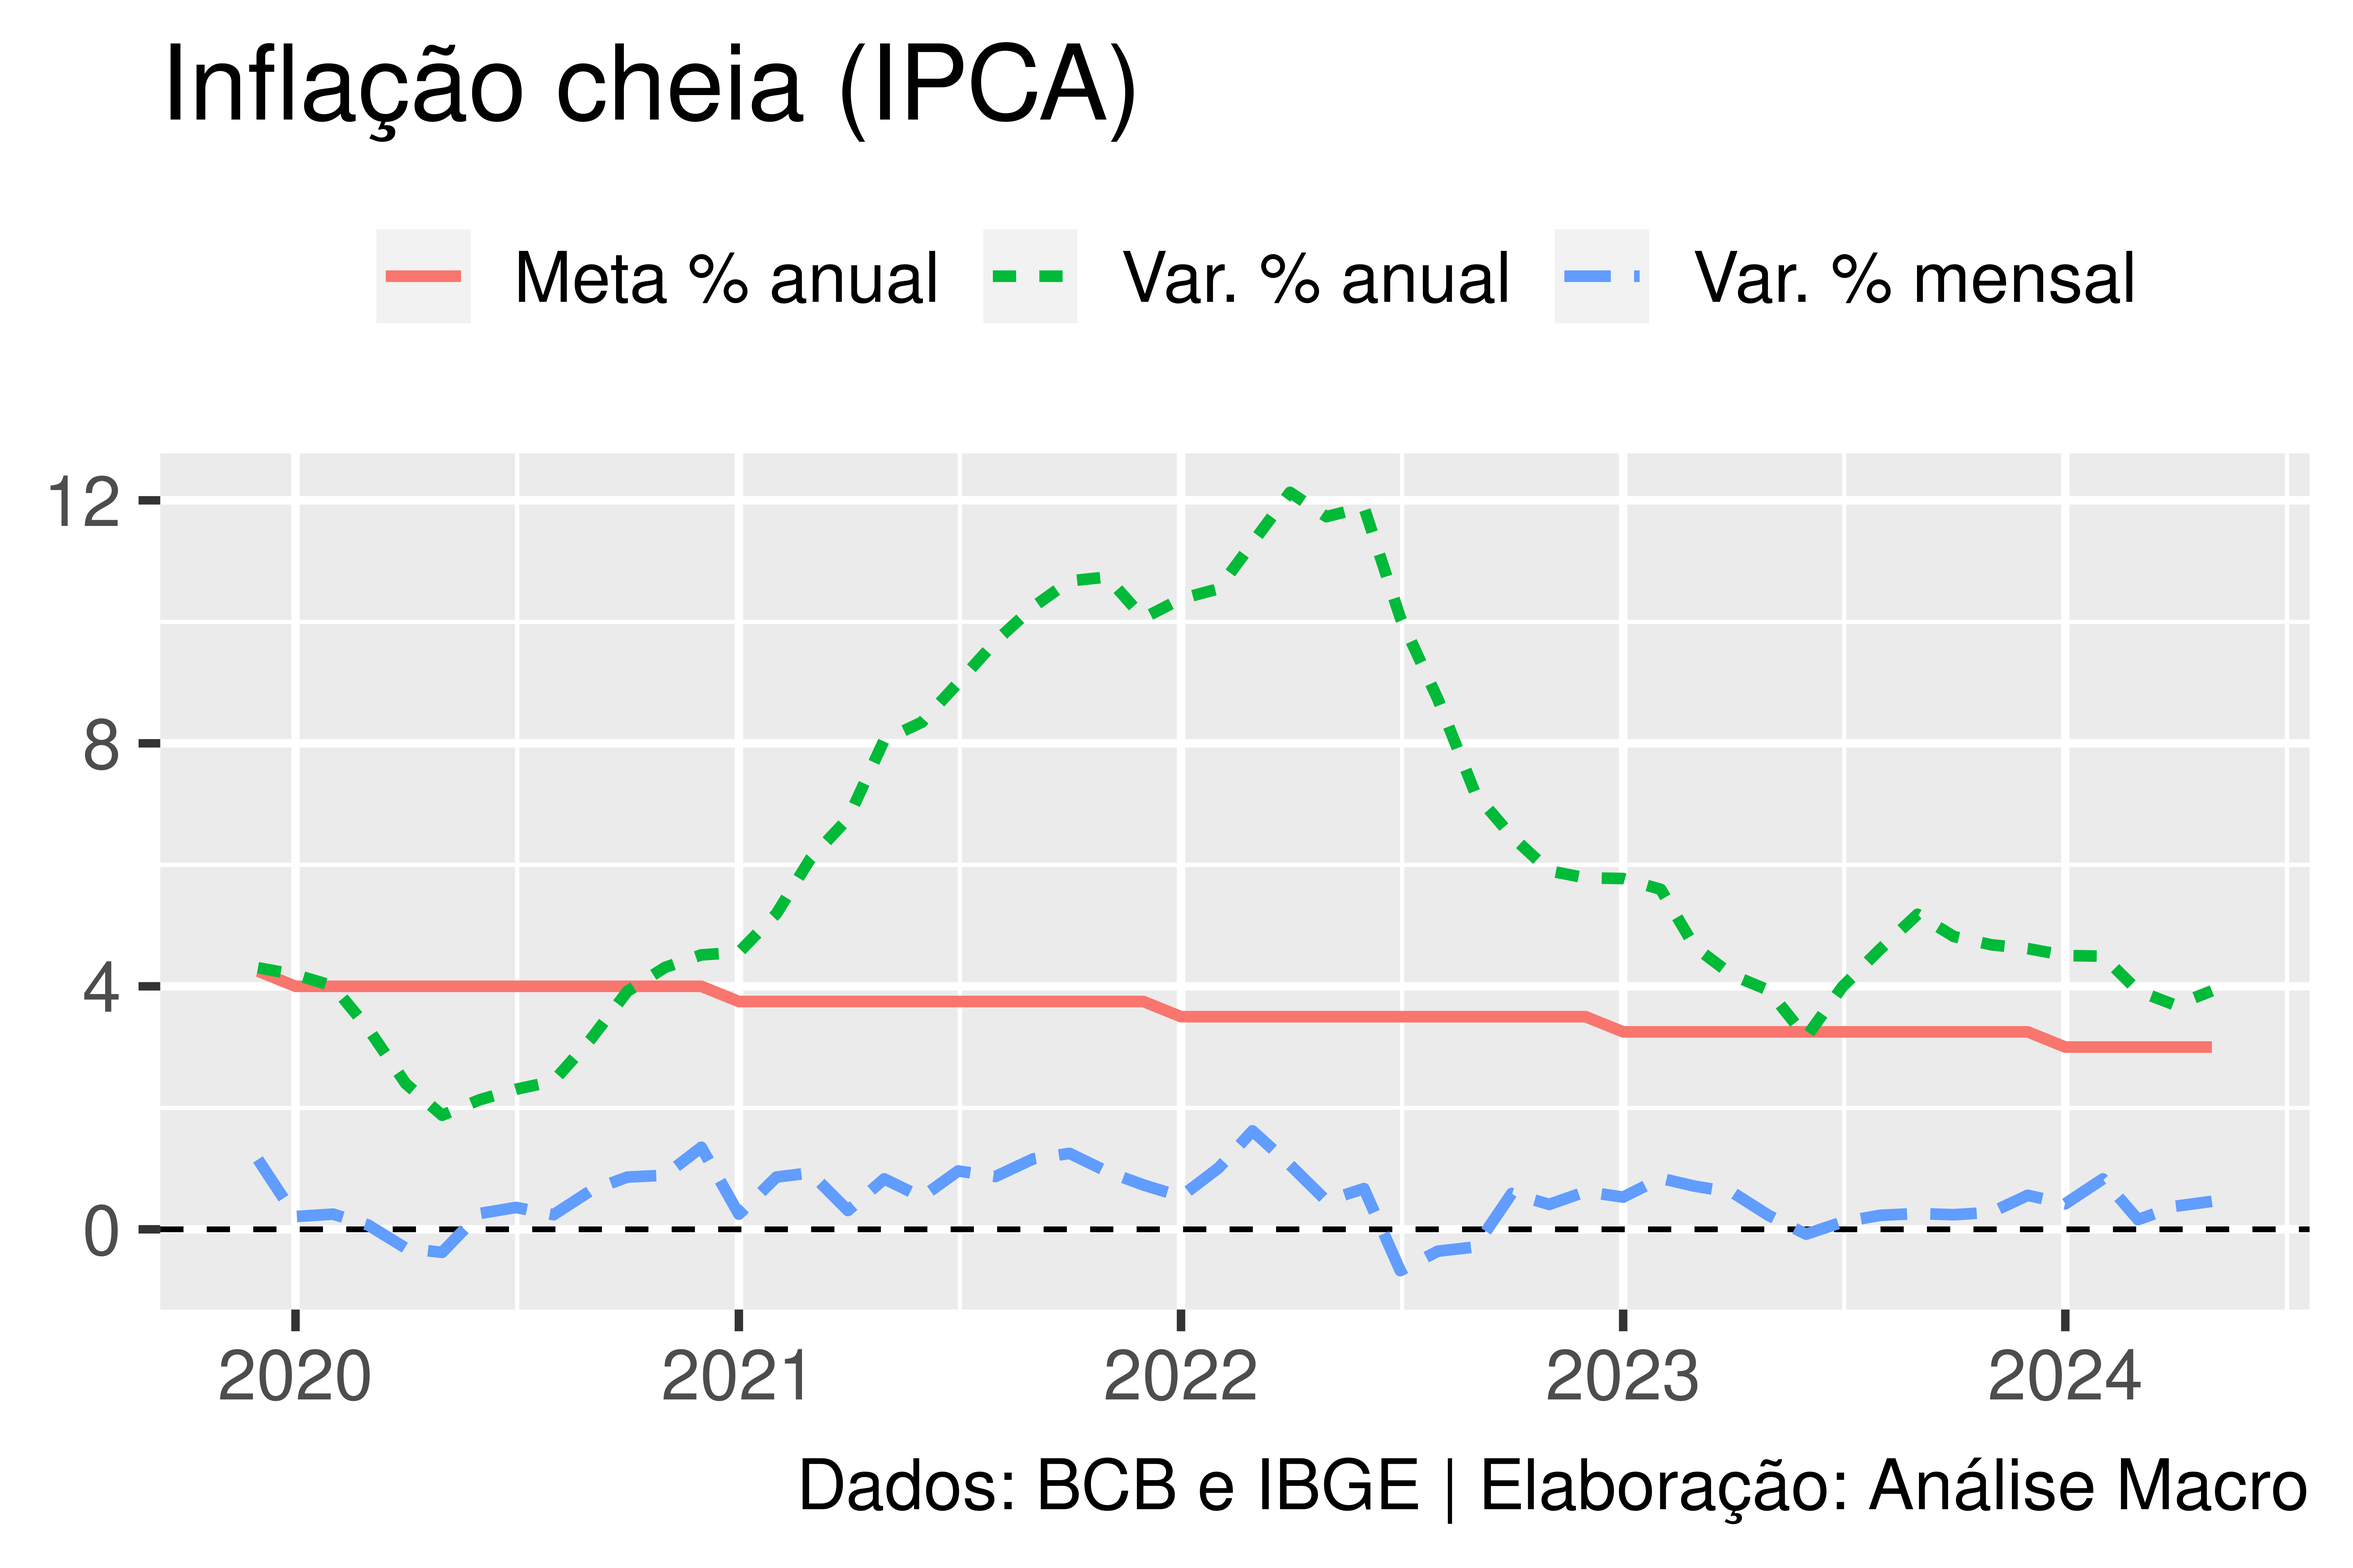
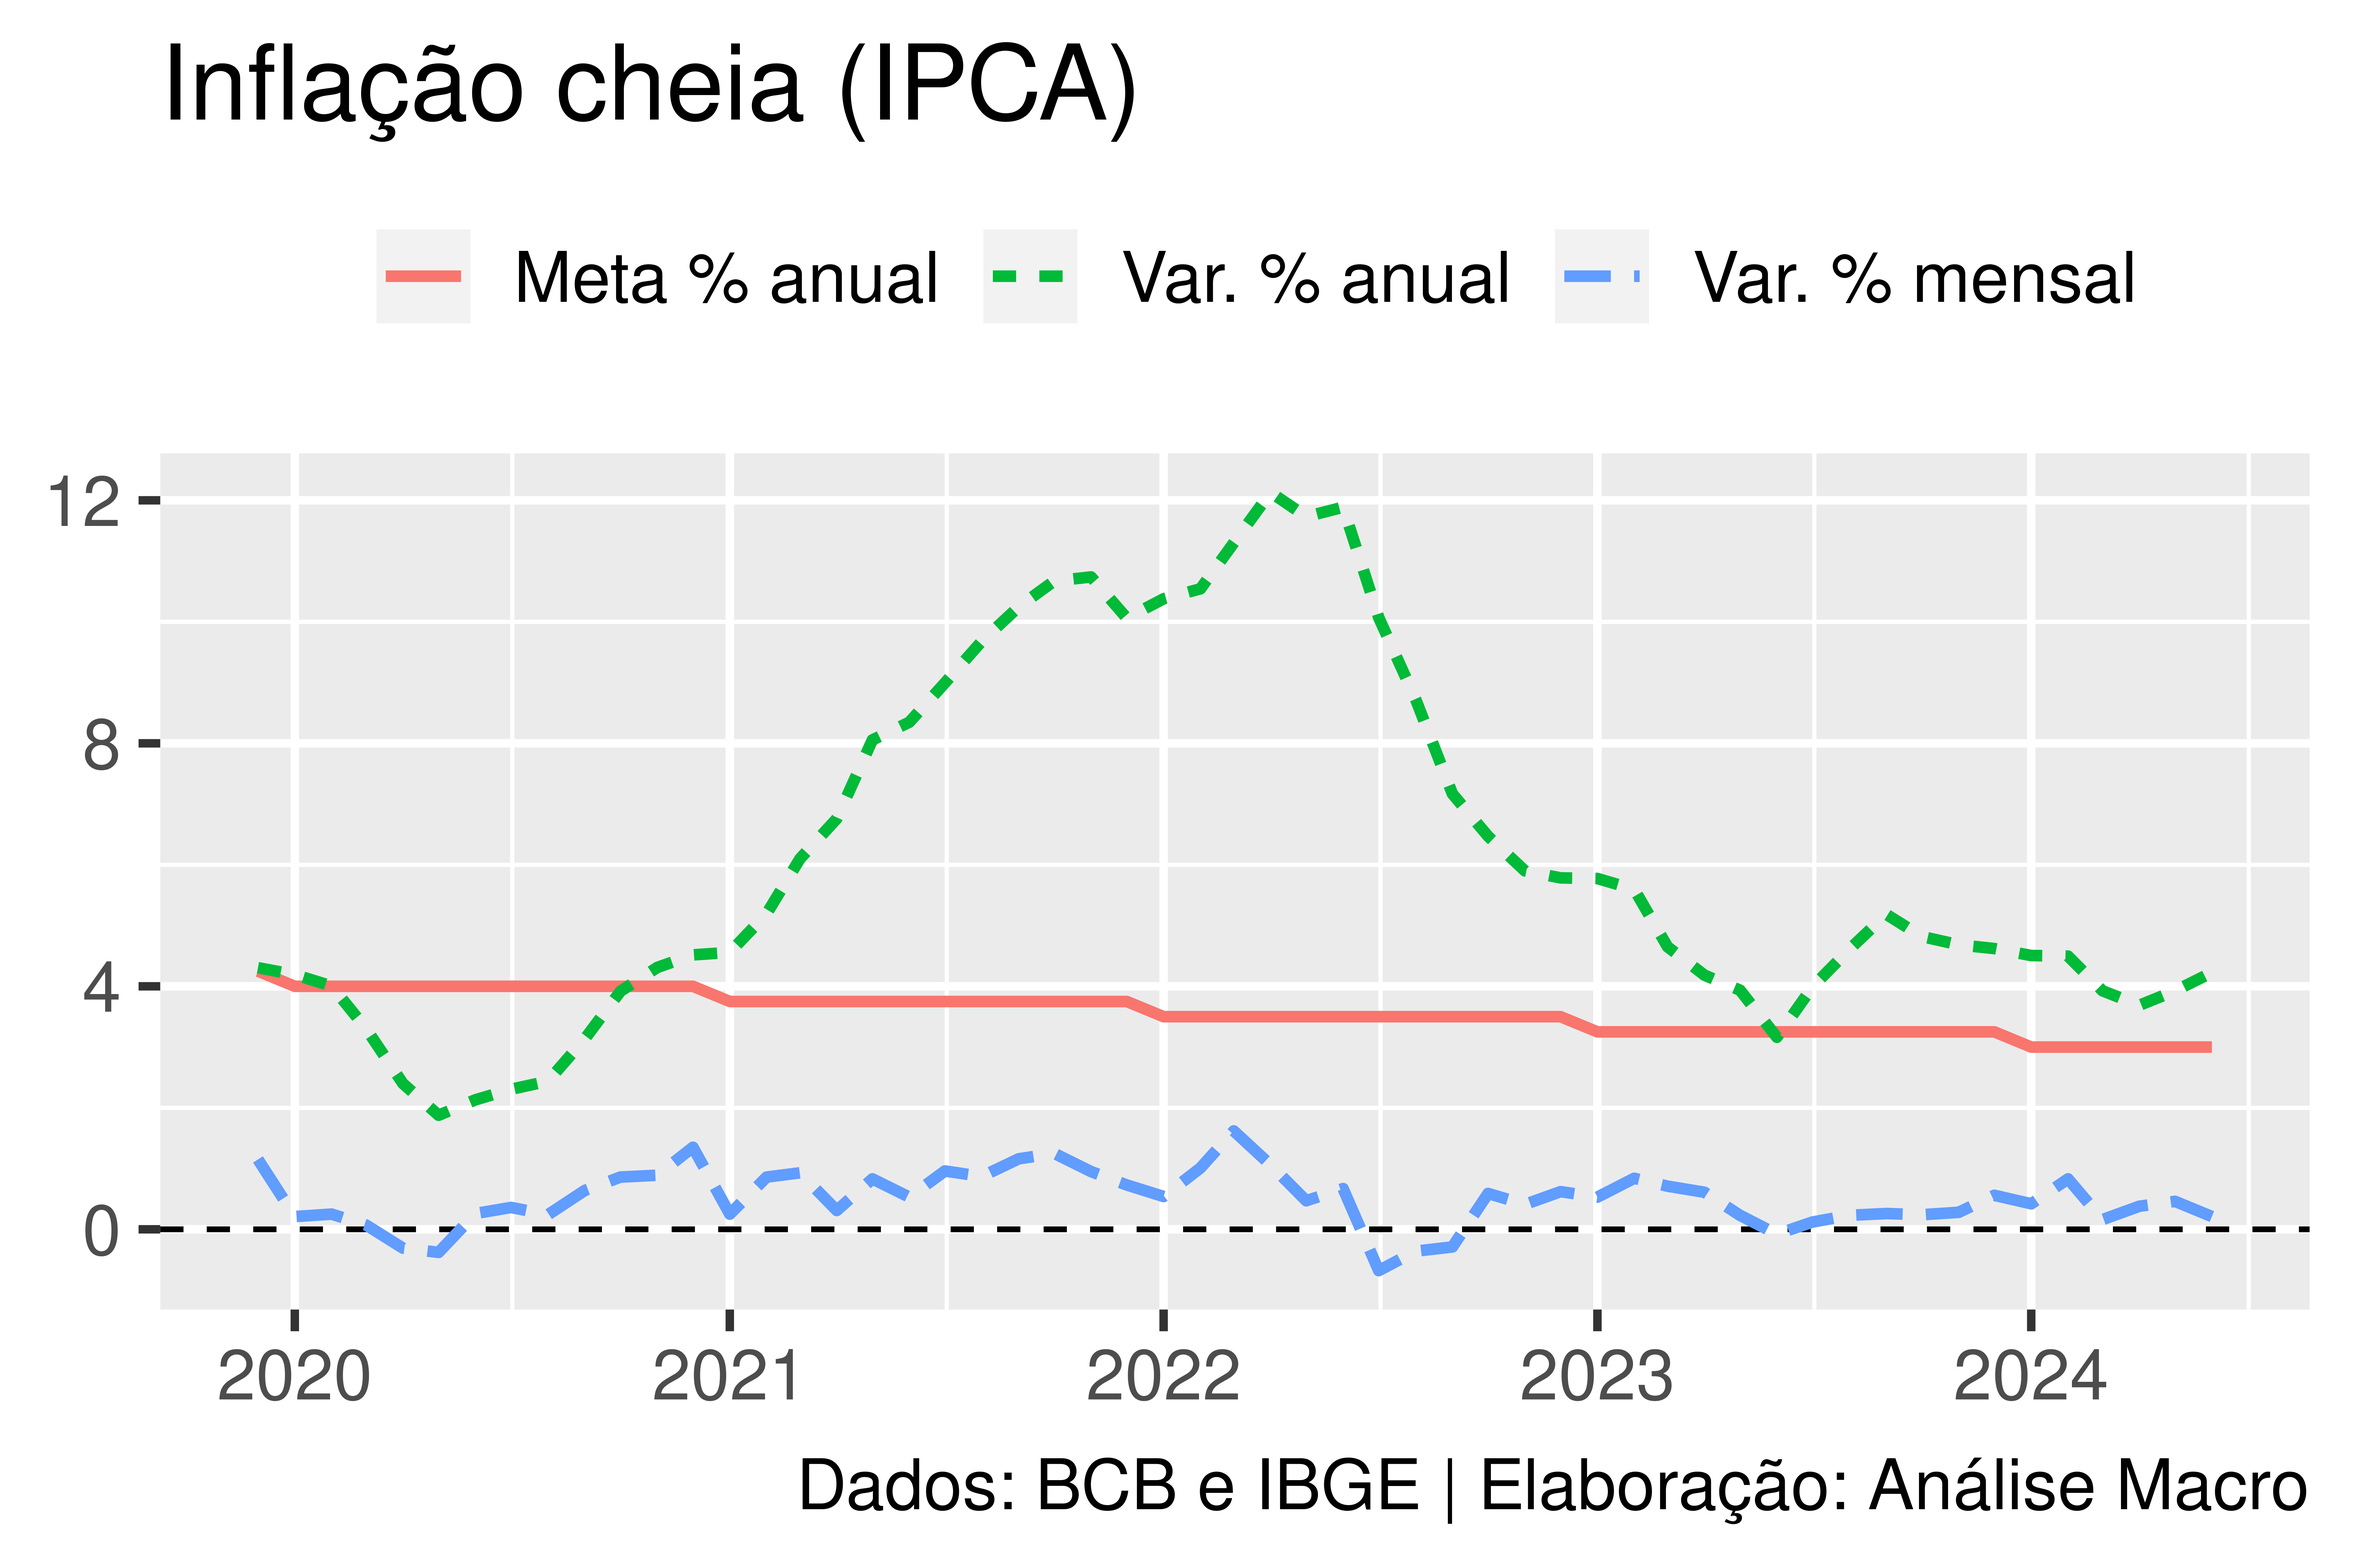
Atualização de relatório automatizada

diff --git a/relatório_ipca/ipca.html b/relatório_ipca/ipca.html
@@ -79,8 +79,8 @@ ul.task-list li input[type="checkbox"] {
 <h2 class="anchored" data-anchor-id="inflação-cheia">Inflação cheia</h2>
 <p>Principais destaques para o Índice nacional de preços ao consumidor-amplo (IPCA):</p>
 <ul>
-<li>O IPCA variou 0,46% no mês de 05/2024 em relação ao mês anterior.</li>
-<li>Em termos anuais, o IPCA acumula 3,93% nos últimos 12 meses.</li>
+<li>O IPCA variou 0,21% no mês de 06/2024 em relação ao mês anterior.</li>
+<li>Em termos anuais, o IPCA acumula 4,23% nos últimos 12 meses.</li>
 <li>Para o ano de 2024 a meta de inflação é de 3,00%. As informações são, quando não explicitamente referenciadas, do IBGE.</li>
 </ul>
 <div class="callout callout-style-default callout-note callout-titled">
